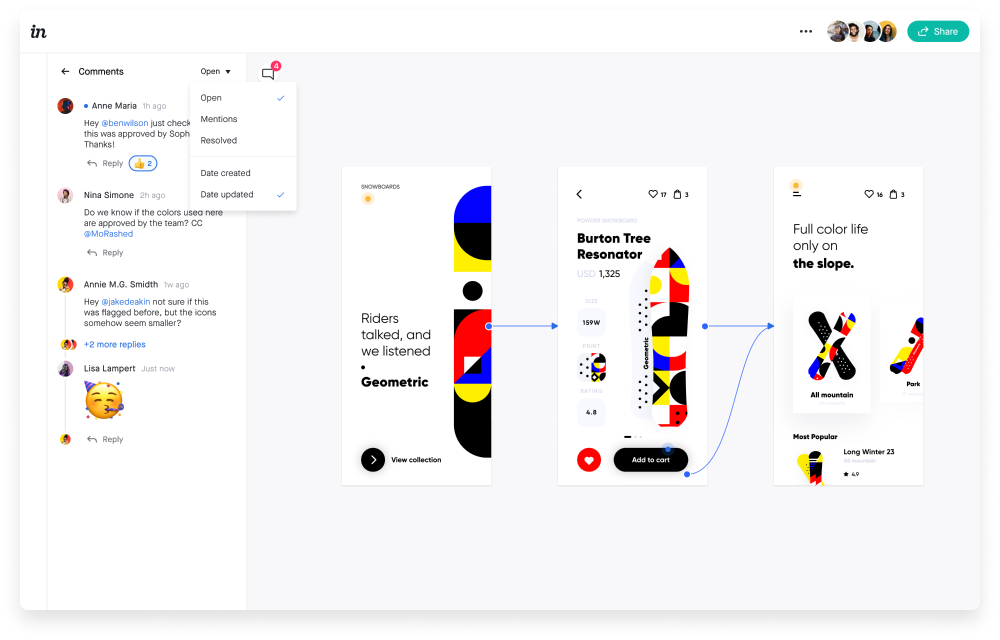
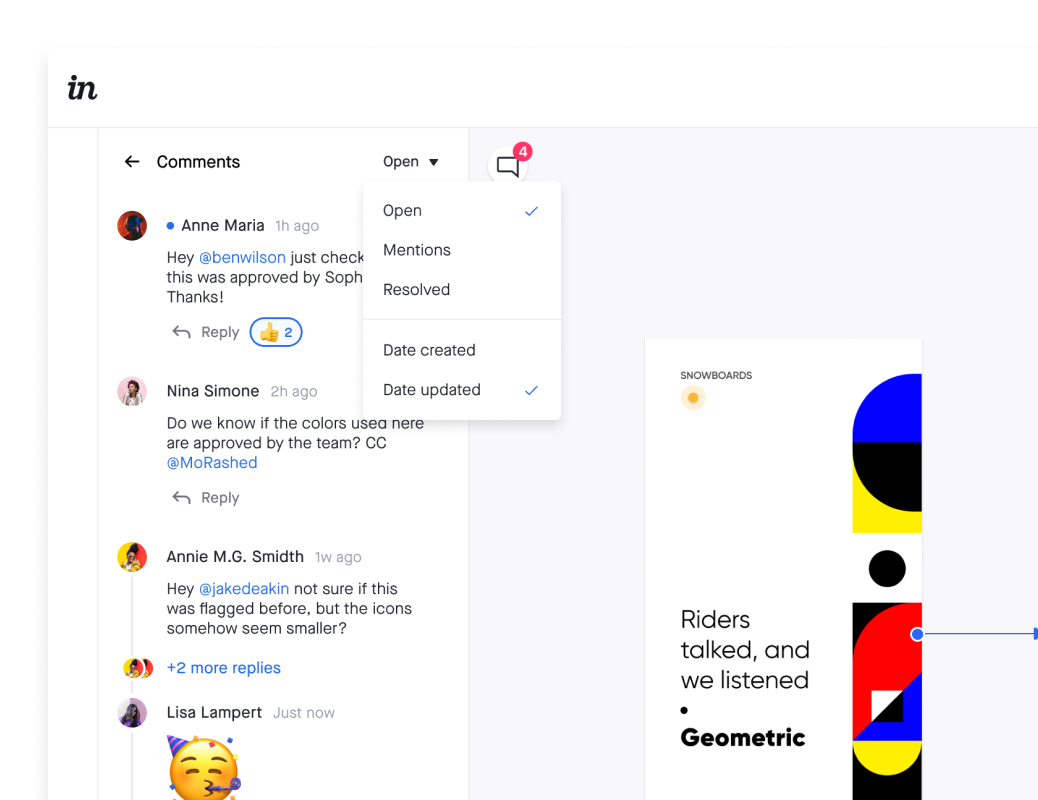
updates

diff --git a/index.html b/index.html
@@ -67,14 +67,14 @@
                         <img alt="Edit comment" src="img/inv-4.png" width="364" />
                     </figure>
                 </div>
-                <div class="portfolio-item grid-5">
+                <div class="portfolio-item bleed grid-5">
                     <figure>
-                        <img alt="Comment sidebar" src="img/inv-5.png" width="450" />
+                        <img alt="Comment sidebar" src="img/inv-5.png" width="100%" />
                     </figure>
                 </div>
-                <div class="portfolio-item grid-6">
+                <div class="portfolio-item bleed grid-6">
                     <figure>
-                        <img alt="Comment Specs" src="img/inv-6.png" width="450" />
+                        <img alt="Comment Specs" src="img/inv-6.png" width="100%" />
                     </figure>
                 </div>
             </div>

diff --git a/css/main.css b/css/main.css
@@ -198,10 +198,16 @@ header.top
     justify-content: center;
 }
 
+
+
 .portfolio-item figure
 {
     margin: 0;
     padding: 8px;
+}
+
+.bleed figure{
+    padding: 0;
 }
 
 .portfolio-item figure img
